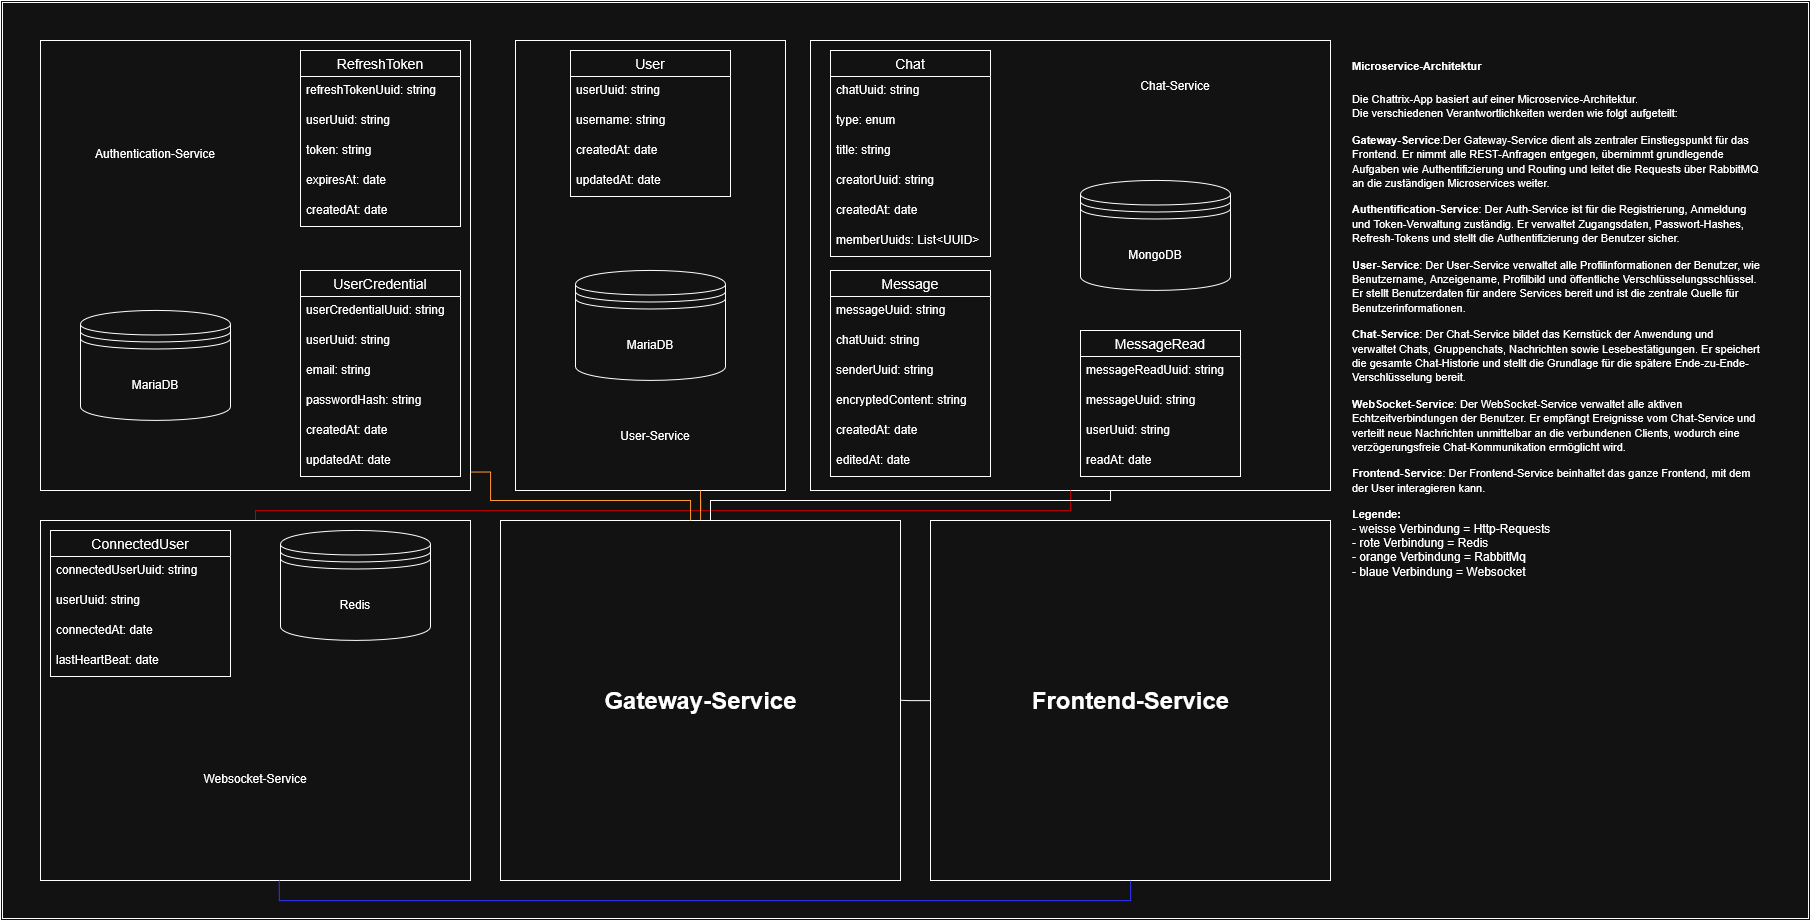
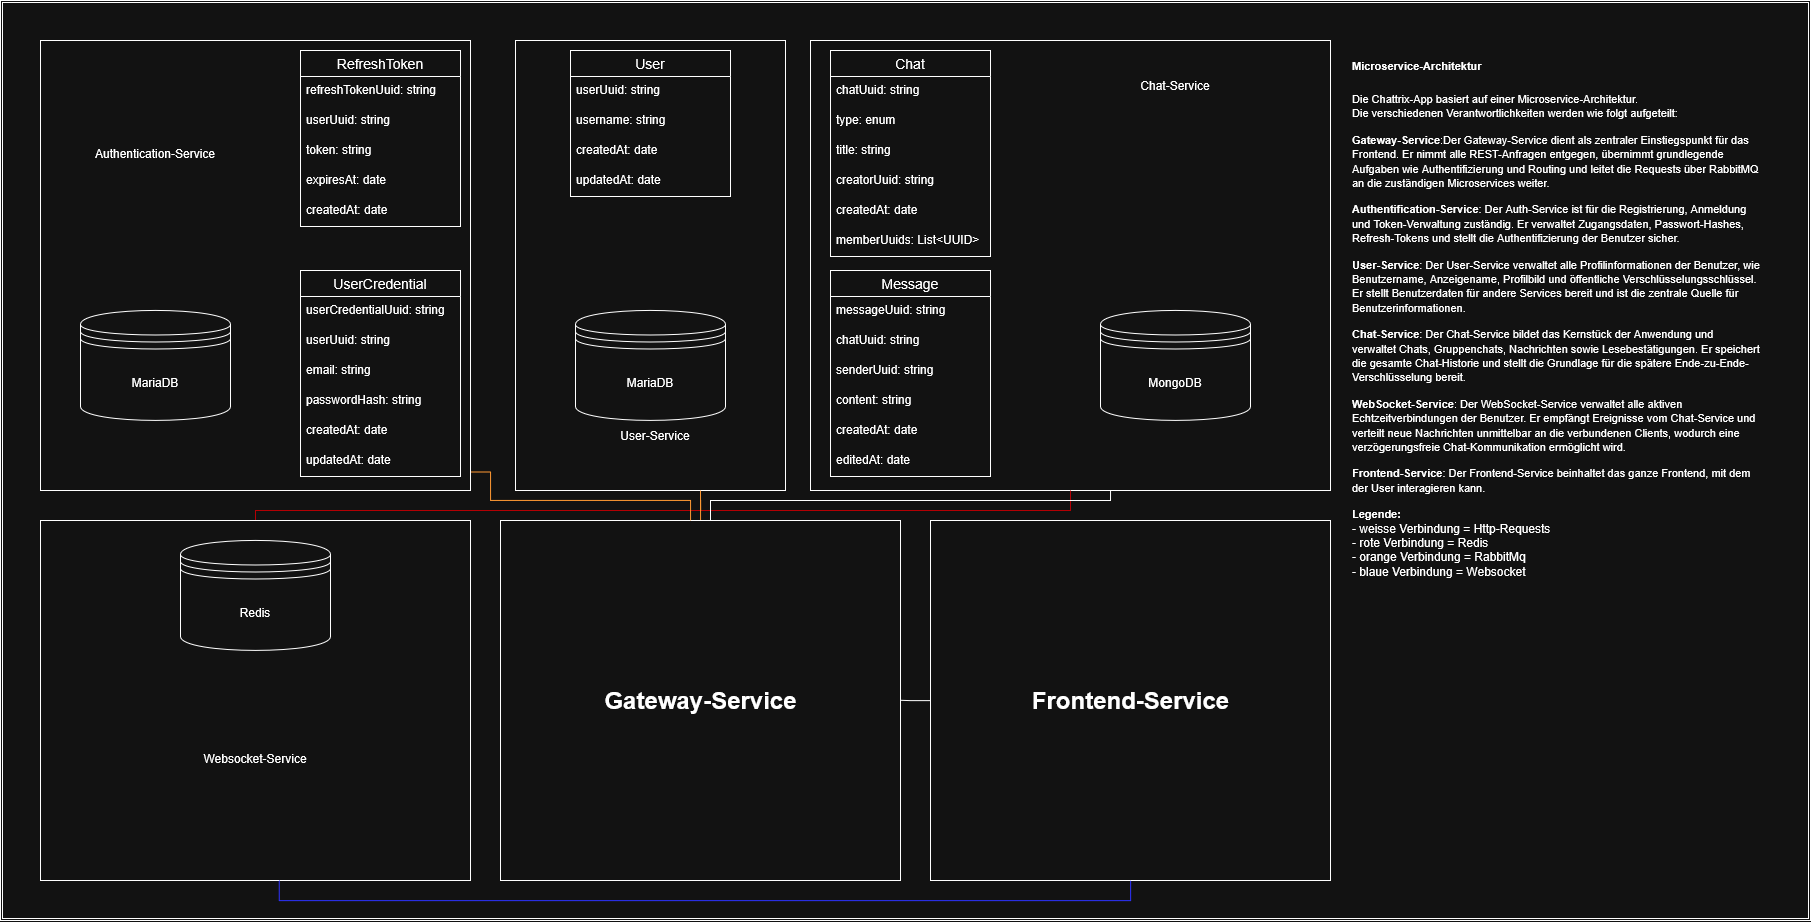
update documentation and unused environment-variables

diff --git a/environment-variables-setup.md b/environment-variables-setup.md
@@ -1,84 +1,74 @@
-## You'll need to set the following environment-variables in the runtime-configuration in your IDE.
-
-Once you arrived at this place click environment variables and add:
+## You'll need to set the following environment-variables:
 
 ---
 
 # authentication-service
 
-- RABBITMQ_HOST
-- RABBITMQ_PORT
-- RABBITMQ_USER
-- RABBITMQ_PASSWORD
+- AUTH_DB
+- AUTH_PASSWORD
+- AUTH_USER
+- JWT_ACCESS_EXPIRATION
+- JWT_REFRESH_EXPIRATION
+- JWT_SECRET
 - MARIADB_HOST
 - MARIADB_PORT
-- AUTH_DB
-- AUTH_USER
-- AUTH_PASSWORD
-- FRONTEND_URL
-- JWT_SECRET
-- JWT_ACCESS_EXPIRATION
+- RABBITMQ_HOST
+- RABBITMQ_PASSWORD
+- RABBITMQ_PORT
+- RABBITMQ_USER
+- SPRING_PROFILES_ACTIVE
 
 ---
 
 # user-service
 
-- RABBITMQ_HOST
-- RABBITMQ_PORT
-- RABBITMQ_USER
-- RABBITMQ_PASSWORD
 - MARIADB_HOST
 - MARIADB_PORT
+- RABBITMQ_HOST
+- RABBITMQ_PASSWORD
+- RABBITMQ_PORT
+- RABBITMQ_USER
+- SPRING_PROFILES_ACTIVE
 - USER_DB
-- USER_USER
 - USER_PASSWORD
-- FRONTEND_URL
+- USER_USER
 
 ---
 
 # chat-service
 
-- RABBITMQ_HOST
-- RABBITMQ_PORT
-- RABBITMQ_USER
-- RABBITMQ_PASSWORD
+- MONGO_APP_PASSWORD
+- MONGO_APP_USER
+- MONGODB_DATABASE
 - MONGODB_HOST
 - MONGODB_PORT
-- MONGODB_DATABASE
-- MONGO_ROOT_USER
-- MONGO_ROOT_PASSWORD
 - REDIS_HOST
-- REDIS_PORT
 - REDIS_PASSWORD
-- FRONTEND_URL
+- REDIS_PORT
+- SPRING_PROFILES_ACTIVE
 
 ---
 
 # gateway-service
 
+- FRONTEND_URL
 - RABBITMQ_HOST
+- RABBITMQ_PASSWORD
 - RABBITMQ_PORT
 - RABBITMQ_USER
-- RABBITMQ_PASSWORD
-- FRONTEND_URL
 - JWT_SECRET
+- SPRING_PROFILES_ACTIVE
 
 ---
 
 # websocket-service
 
-- RABBITMQ_HOST
-- RABBITMQ_PORT
-- RABBITMQ_USER
-- RABBITMQ_PASSWORD
-- REDIS_HOST
-- REDIS_PORT
-- REDIS_PASSWORD
 - FRONTEND_URL
-
----
-
-## Also, you'll need to set the profile to "local" in the runtime-configuration
+- JWT_SECRET
+- REDIS_HOST
+- REDIS_PASSWORD
+- REDIS_PORT
+- SPRING_PROFILES_ACTIVE
 
 ---
 
@@ -107,4 +97,4 @@ Once you arrived at this place click environment variables and add:
 - RABBITMQ_PORT
 - RABBITMQ_UI_PORT
 - REDIS_PASSWORD
-- REDIS_PORT  
+- REDIS_PORT 